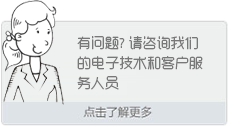
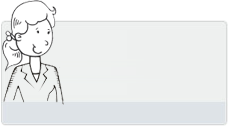
列表页左侧导航修改

diff --git a/html/distribution.html b/html/distribution.html
@@ -202,7 +202,12 @@
                                 <a class="detail_line" href="javascript:;">联系我们</a>
                             </li>
                         </ul>
-                        <div class="product_us"><a href="javascript:;"><img src="images/product_us_03.png"></a></div>
+                        <div class="product_us">
+                            <a href="javascript:;">
+                                <span class="product_us_nav">有问题? 请咨询我们的电子技术和客户服务人员</span>
+                                <span class="product_us_a">点击了解更多</span>
+                            </a>
+                        </div>
                     </div>
                     <div class="detail_main f_left">
                         <div class="detail_navigation">

diff --git a/app/css/common.css b/app/css/common.css
@@ -580,6 +580,28 @@ body{
 }
 .product_us{
     margin-top: 20px;
+    background: url(/Themes/StyleJotrin/images/common/product_us_03.png) no-repeat;
+    width: 228px;
+    height: 126px;
+}
+.product_us a{
+    display: block;
+    width: 228px;
+    height: 126px;
+}
+.product_us_nav{
+    width: 130px;
+    font-size: 14px;
+    display: block;
+    font-family: '微软雅黑';
+    color: #555;
+    padding: 30px 0 0 90px;
+}
+.product_us_a{
+    color: #888;
+    font-family: '微软雅黑';
+    padding: 20px 0 0 90px;
+    display: block;
 }
 
 .detail_navigation p{

diff --git a/html/css/common.css b/html/css/common.css
@@ -580,7 +580,31 @@ body{
 }
 .product_us{
     margin-top: 20px;
+    background: url(../images/product_us_03.png) no-repeat;
+    width: 228px;
+    height: 126px;
 }
+.product_us a{
+    display: block;
+    width: 228px;
+    height: 126px;
+}
+.product_us_nav{
+    width: 130px;
+    font-size: 14px;
+    display: block;
+    font-family: '微软雅黑';
+    color: #555;
+    padding: 30px 0 0 90px;
+}
+.product_us_a{
+    color: #888;
+    font-family: '微软雅黑';
+    padding: 20px 0 0 90px;
+    display: block;
+}
+
+
 
 .detail_navigation p{
     color: #666;

diff --git a/app/protected/views/layouts/column1.php b/app/protected/views/layouts/column1.php
@@ -49,7 +49,12 @@
             <a class="detail_line" href="<?php echo $this->createUrl('/ContactUs/Index'); ?>"><?php echo Yii::t('main','Contact Us'); ?></a>
         </li>
     </ul>
-    <div class="product_us"><a href="<?php echo $this->createUrl('/ContactUs/Index'); ?>"><img src="<?php echo Yii::app()->request->baseUrl; ?>/images/product_us_03.png"></a></div>
+    <div class="product_us">
+        <a href="<?php echo $this->createUrl('/ContactUs/Index'); ?>">
+            <span class="product_us_nav">有问题? 请咨询我们的电子技术和客户服务人员</span>
+            <span class="product_us_a">点击了解更多</span>
+        </a>
+    </div>
 </div>
 	        <?php echo $content; ?>
 <?php $this->endContent(); ?>
